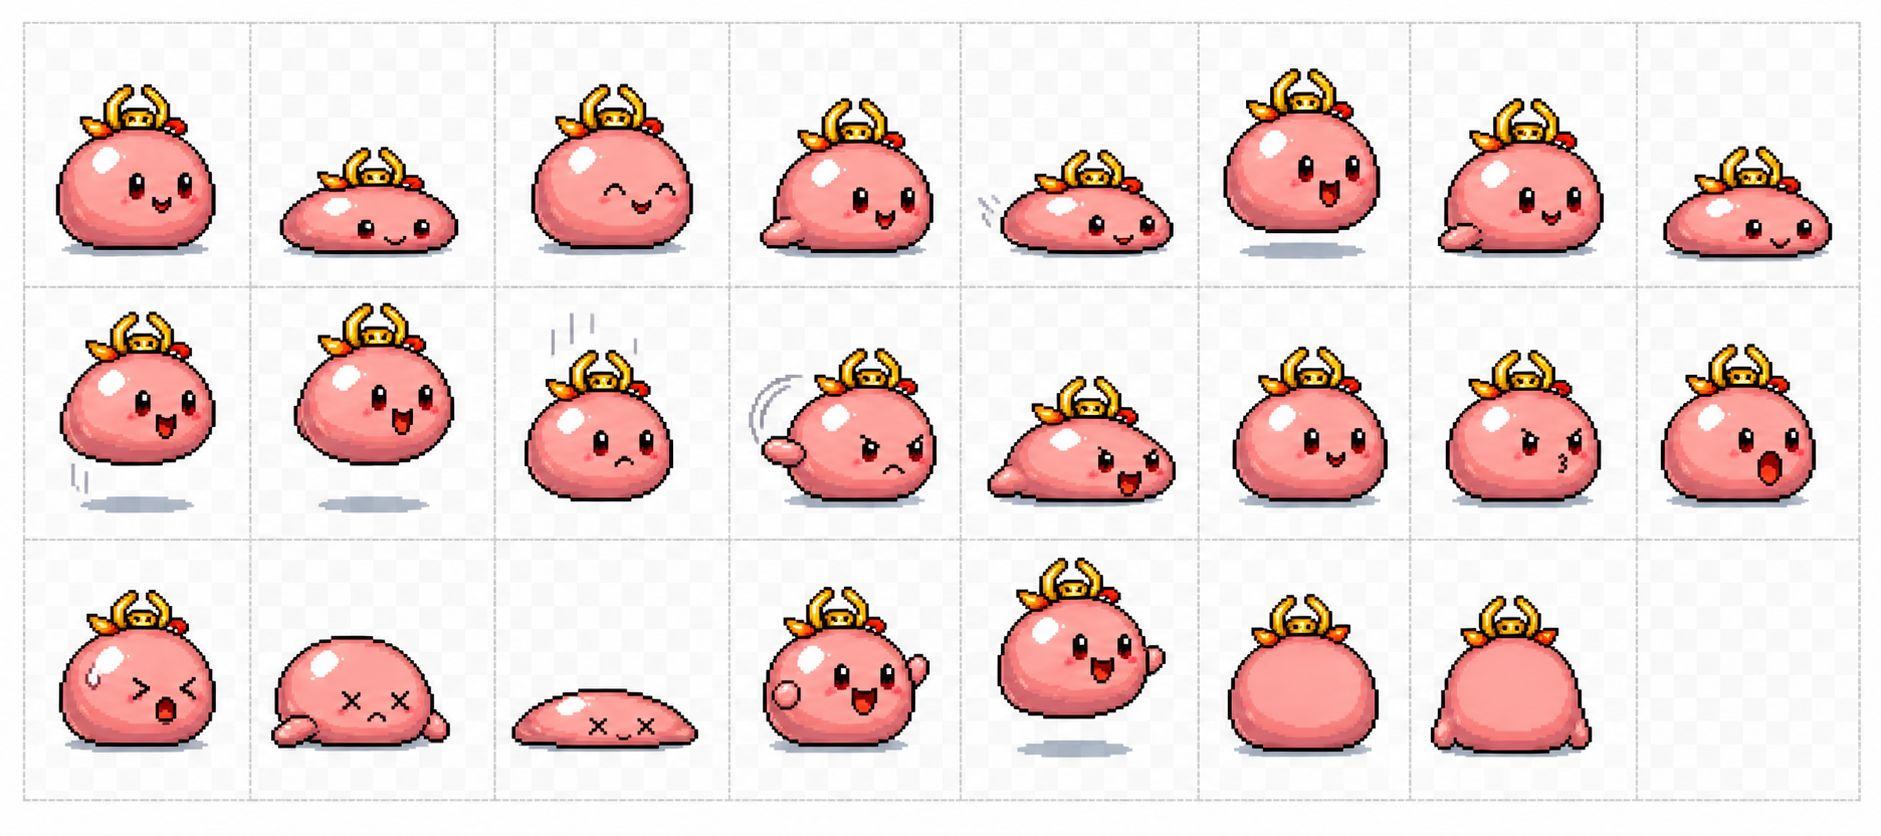
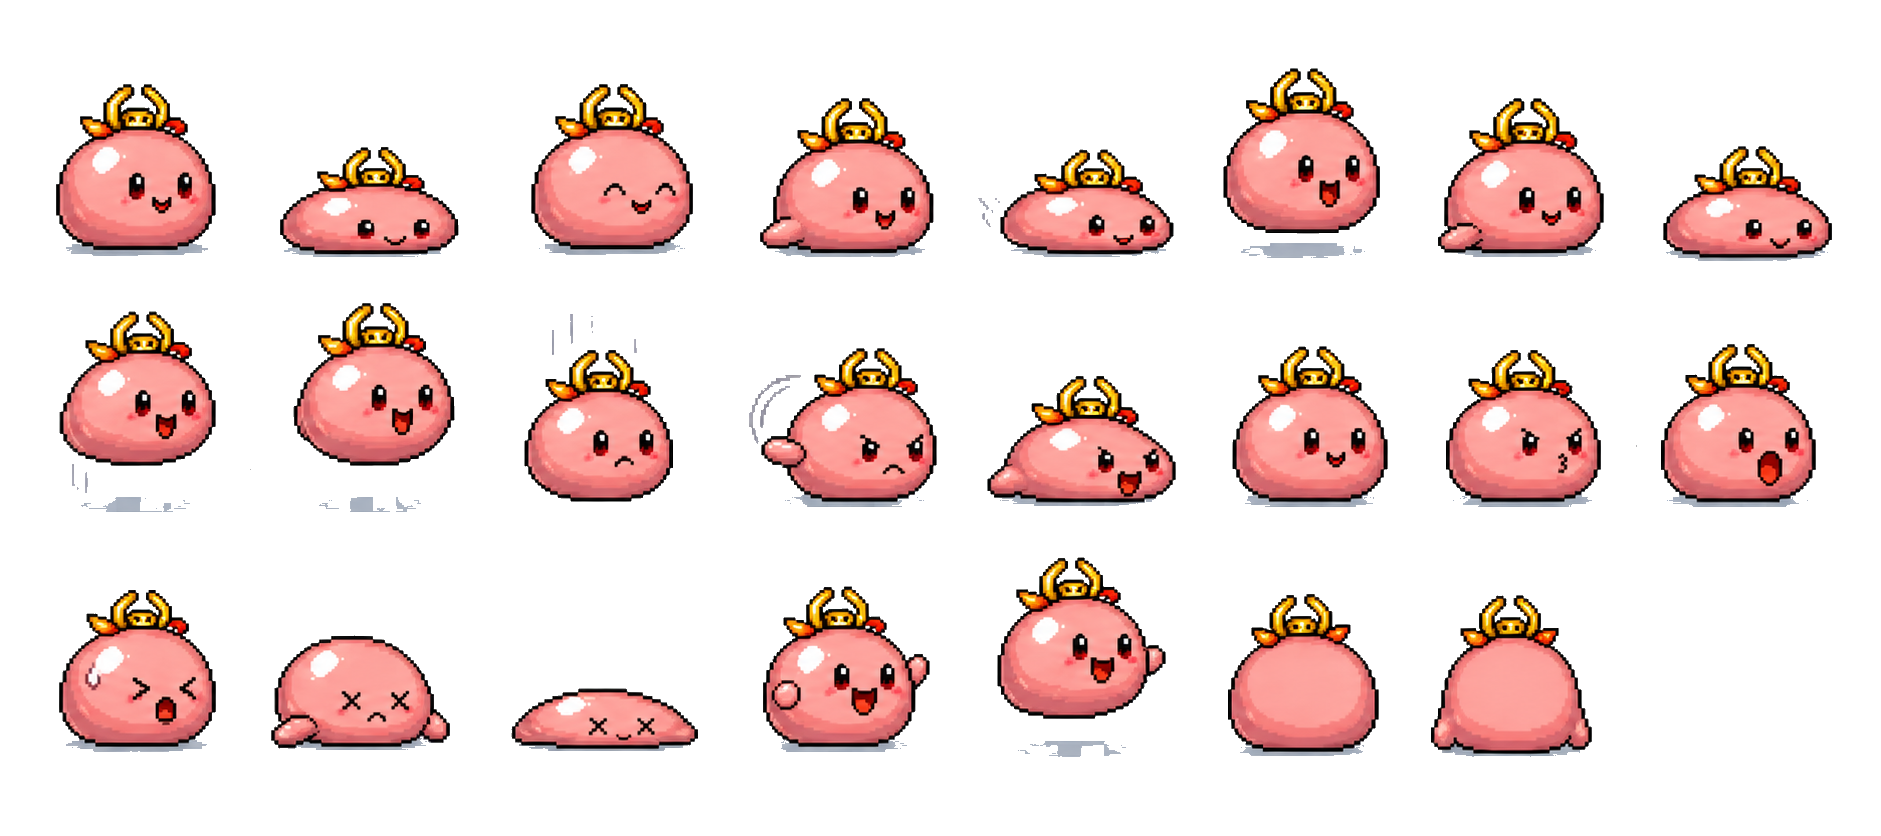
fix: 슬라임 스프라이트 배경 투명화와 이동 속도 보정
slime_hero_sheet를 RGBA PNG로 정리해 체커/흰 배경이 보이지 않게 하고 idle 프레임을 0번으로 고정했다.

좌우 이동 속도를 5.5에서 8.5로 올리고 프레임 미리보기는 idle 0번과 walk 3~6번만 노출한다.

Constraint: 배경, 몬스터, 체력, 점프, 공격 기능은 계속 제외하고 스프라이트 이동 검증 범위만 유지했다.

Rejected: CSS로 흰 박스만 가리는 방식 | 원본 에셋 배경이 baked-in 되어 실제 alpha PNG로 정리했다.

Confidence: high

Scope-risk: narrow

Tested: pnpm --filter @user/web lint

Tested: pnpm --filter @user/web typecheck

Tested: pnpm --filter @user/web build

Tested: next start -p 3107 + system Chrome Playwright screenshot

Tested: git diff --cached --check

diff --git a/apps/web/src/features/slime-game/slime-game-state.ts b/apps/web/src/features/slime-game/slime-game-state.ts
@@ -22,12 +22,10 @@ export const TRACK_WIDTH = 760;
 export const MIN_X = 24;
 export const MAX_X = TRACK_WIDTH - SPRITE_VIEW_WIDTH - 24;
 
-const MOVE_SPEED = 5.5;
+const MOVE_SPEED = 8.5;
 const WALK_FRAME_TICKS = 5;
-const IDLE_FRAME_TICKS = 14;
 
 const WALK_FRAMES = [3, 4, 5, 6] as const;
-const IDLE_FRAMES = [0, 1, 0, 2] as const;
 
 export const INITIAL_STATE: GameState = {
   x: 96,
@@ -57,9 +55,7 @@ export function slimeFrame(state: GameState) {
     ];
   }
 
-  return IDLE_FRAMES[
-    Math.floor(state.tick / IDLE_FRAME_TICKS) % IDLE_FRAMES.length
-  ];
+  return 0;
 }
 
 function clamp(value: number, min: number, max: number) {

diff --git a/apps/web/src/features/slime-game/slime-game-stage.tsx b/apps/web/src/features/slime-game/slime-game-stage.tsx
@@ -12,7 +12,7 @@ import {
 } from "./slime-game-state";
 import { SpriteSheet } from "./sprite-sheet";
 
-const PREVIEW_FRAMES = [0, 1, 2, 3, 4, 5, 6] as const;
+const PREVIEW_FRAMES = [0, 3, 4, 5, 6] as const;
 
 export function SlimeGameStage({
   state,
@@ -108,7 +108,7 @@ export function SlimeGameStage({
             <div>
               <h2 className="text-base font-black text-white">프레임 확인</h2>
               <p className="mt-1 text-sm text-neutral-400">
-                idle은 0~2, walk는 3~6만 사용합니다. 초록 테두리가 현재
+                idle은 0번만, walk는 3~6만 사용합니다. 초록 테두리가 현재
                 프레임입니다.
               </p>
             </div>
@@ -116,7 +116,7 @@ export function SlimeGameStage({
               x {Math.round(state.x)}px
             </span>
           </div>
-          <div className="grid grid-cols-7 gap-3">
+          <div className="grid grid-cols-5 gap-3">
             {PREVIEW_FRAMES.map((previewFrame) => (
               <div
                 key={previewFrame}

diff --git a/docs/product/backlog/slime-sprite-alpha-speed-20260516.md b/docs/product/backlog/slime-sprite-alpha-speed-20260516.md
@@ -1,0 +1,42 @@
+# 슬라임 스프라이트 투명 배경·속도 보정 백로그 (2026-05-16)
+
+## 1차
+
+### 작업내용
+
+- `/slime-game` idle 프레임을 0번 하나로 고정한다.
+- 좌우 이동 속도를 현재 검증 화면보다 더 빠르게 조정한다.
+- `slime_hero_sheet.png`의 흰/체커 배경이 화면에 보이지 않도록 sprite 배경을 투명하게 만든다.
+- 기존 목표처럼 배경, 몬스터, 체력, 점프, 근접/원거리 공격은 계속 제외한다.
+
+### 논의 필요
+
+- 원본 에셋에 체커/가이드 배경이 baked-in 되어 있어 CSS만으로는 진짜 투명 요소가 되지 않는다.
+- 이번 차수에서는 PNG 자체를 투명 배경으로 정리하고, 게임 기능 추가는 하지 않는다.
+
+### 선택지
+
+- A. `slime_hero_sheet.png` 자체를 투명 배경 PNG로 정리하고 현재 경로를 유지한다.
+- B. 새 `slime_hero_sheet_transparent.png`를 만들고 코드 경로를 바꾼다.
+
+### 추천
+
+- A. 현재 검증 화면이 쓰는 source of truth 경로를 그대로 유지해야 이후 작업에서 흰 박스가 다시 섞일 가능성이 낮다.
+
+### 사용자 방향
+
+- A 기준으로 진행. idle 0번 고정, 이동속도 상향, 슬라임 sprite 배경 투명화만 처리한다.
+
+## 완료 기록
+
+- idle 프레임을 0번 하나로 고정했다.
+- 이동 속도를 `5.5`에서 `8.5`로 올렸다.
+- `slime_hero_sheet.png`를 RGB PNG에서 RGBA PNG로 변환하고, 각 셀의 edge-connected 흰/회색 체커 배경을 alpha 0으로 제거했다.
+- 프레임 확인 영역은 `#0`, `#3`, `#4`, `#5`, `#6`만 노출한다.
+
+## 검증
+
+- `pnpm --filter @yeon/web lint`
+- `pnpm --filter @yeon/web typecheck`
+- `pnpm --filter @yeon/web build`
+- `next start -p 3107` + system Chrome Playwright headless screenshot: idle `#0`, ArrowRight 입력 중 `x 96px` → `x 283px`, `walk/right/#3`, 흰 sprite 박스 제거 확인

diff --git a/ai-log/hyeonjun/2026-05-16/6-작업-codex_0000-완료_slime-sprite-alpha-speed.md b/ai-log/hyeonjun/2026-05-16/6-작업-codex_0000-완료_slime-sprite-alpha-speed.md
@@ -1,0 +1,27 @@
+# 슬라임 스프라이트 투명 배경·속도 보정 작업 로그
+
+## 목표
+
+- idle은 0번 프레임 하나로 고정한다.
+- 좌우 이동 속도를 올린다.
+- 슬라임 sprite 요소에서 흰/체커 배경이 보이지 않도록 `slime_hero_sheet.png` 배경을 투명하게 정리한다.
+
+## 진행
+
+- 백로그 작성 완료.
+- `slimeFrame`의 idle 분기를 0번 프레임 고정으로 변경했다.
+- 이동 속도를 `5.5`에서 `8.5`로 올렸다.
+- `slime_hero_sheet.png`를 RGBA PNG로 변환하고 각 셀 edge-connected 배경 픽셀 74.6%를 alpha 0으로 제거했다.
+- 프레임 미리보기는 idle `#0`과 walk `#3~#6`만 보이게 줄였다.
+
+## 검증
+
+- `pnpm --filter @yeon/web lint` 성공.
+- `pnpm --filter @yeon/web typecheck` 성공.
+- `pnpm --filter @yeon/web build` 성공.
+- `next start -p 3107` + system Chrome Playwright headless 확인 성공.
+  - idle 프레임 `#0` 확인.
+  - ArrowRight 입력 중 `x 96px` → `x 283px` 이동 확인.
+  - `walk`, `right`, 프레임 `#3` 표시 확인.
+  - 흰 sprite 박스 제거 확인.
+  - 스크린샷: `/tmp/slime-game-alpha-speed.png`.